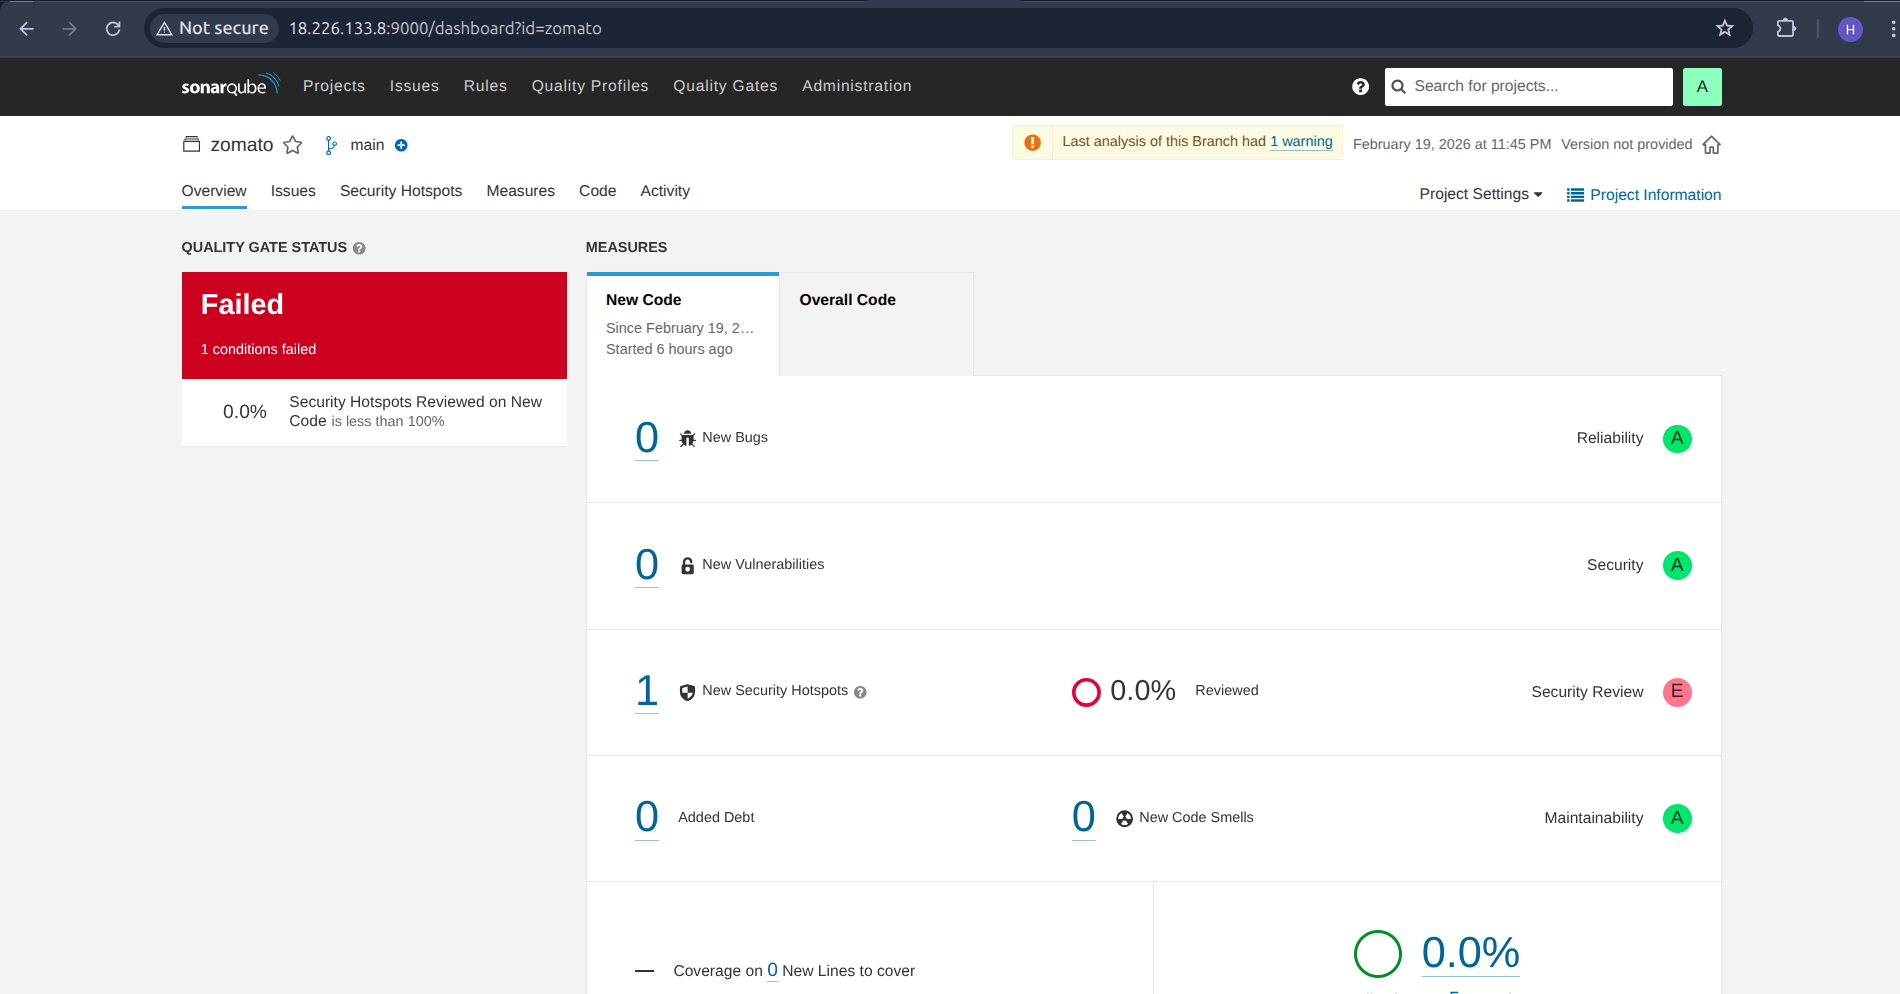
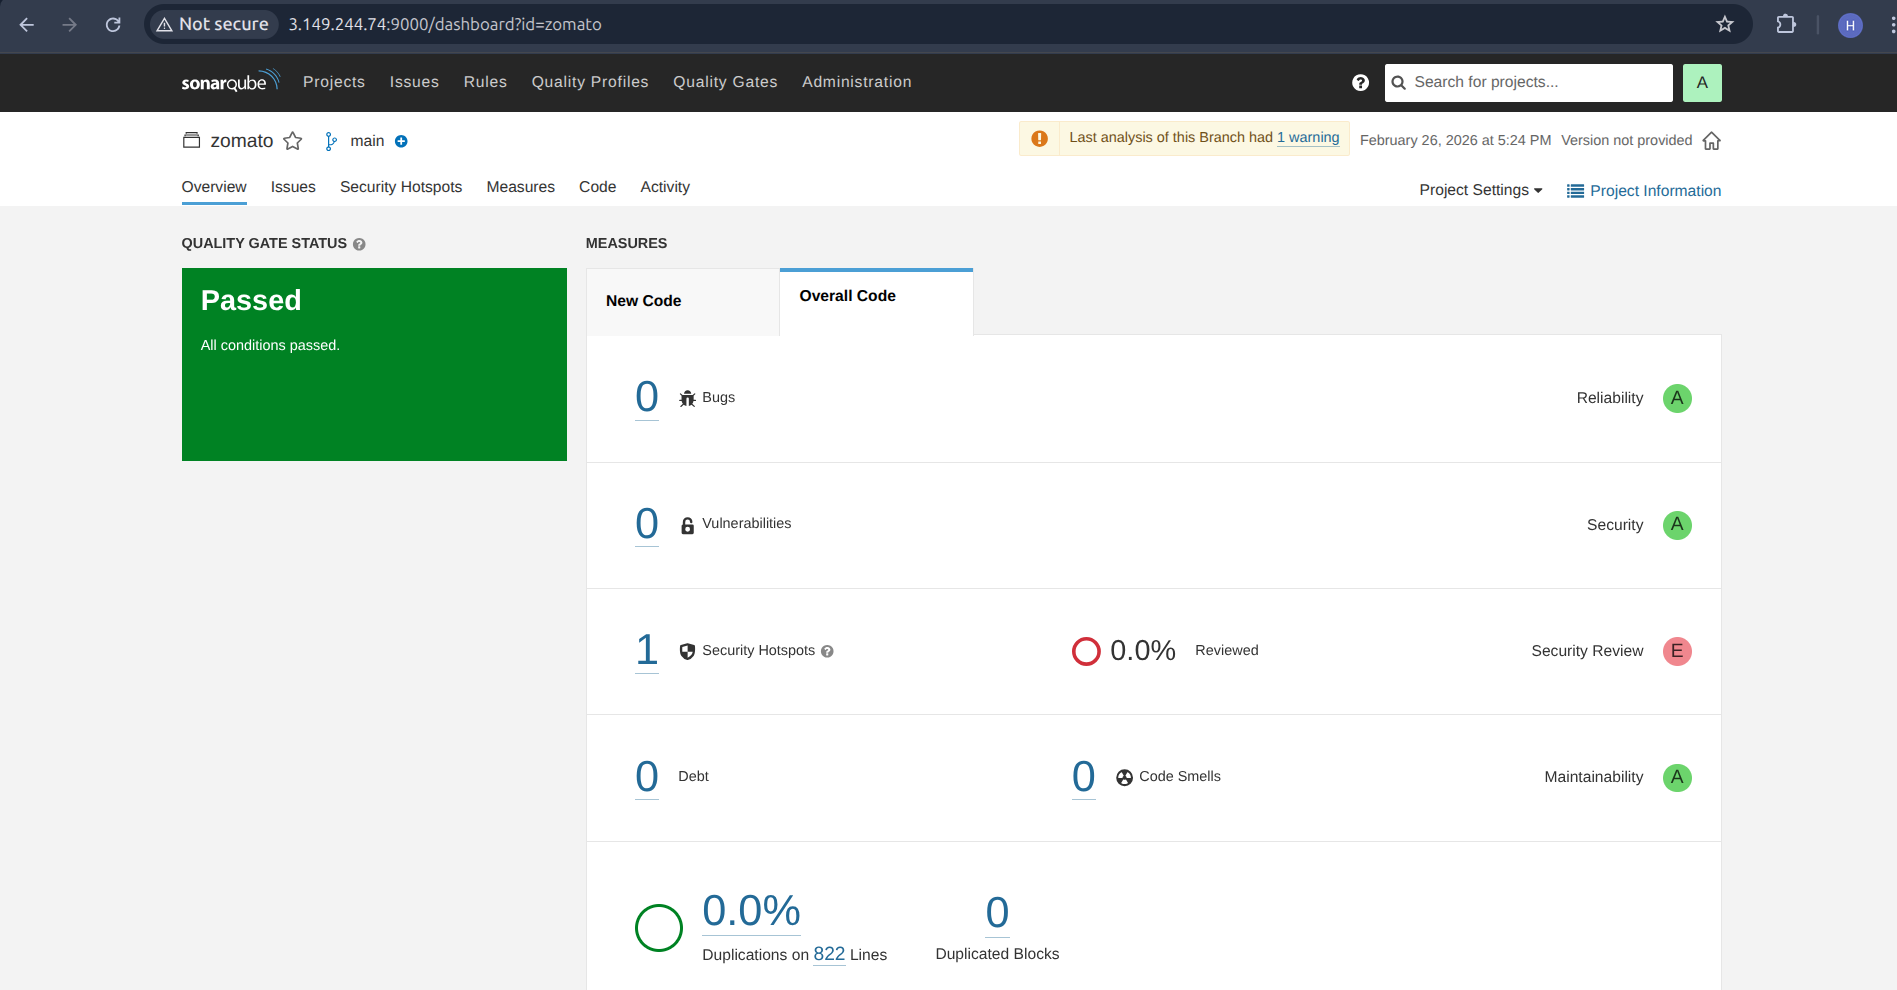
Updated the files

diff --git a/README.md b/README.md
@@ -377,8 +377,11 @@ This project strengthened my understanding of production-level DevOps workflows 
 
 # 👨💻 Author
 
-## Harshal
-DevOps Engineer | Cloud Enthusiast | CI/CD Practitioner
+**Harshal Gharat**  
+DevOps | Kubernetes | AWS | DevSecOps  
+
+[![LinkedIn](https://img.shields.io/badge/LinkedIn-Connect-blue?logo=linkedin)](https://www.linkedin.com/in/harshalgharat01/)
+[![GitHub](https://img.shields.io/badge/GitHub-Follow-black?logo=github)](https://github.com/harshal019)
 
 
 ---
